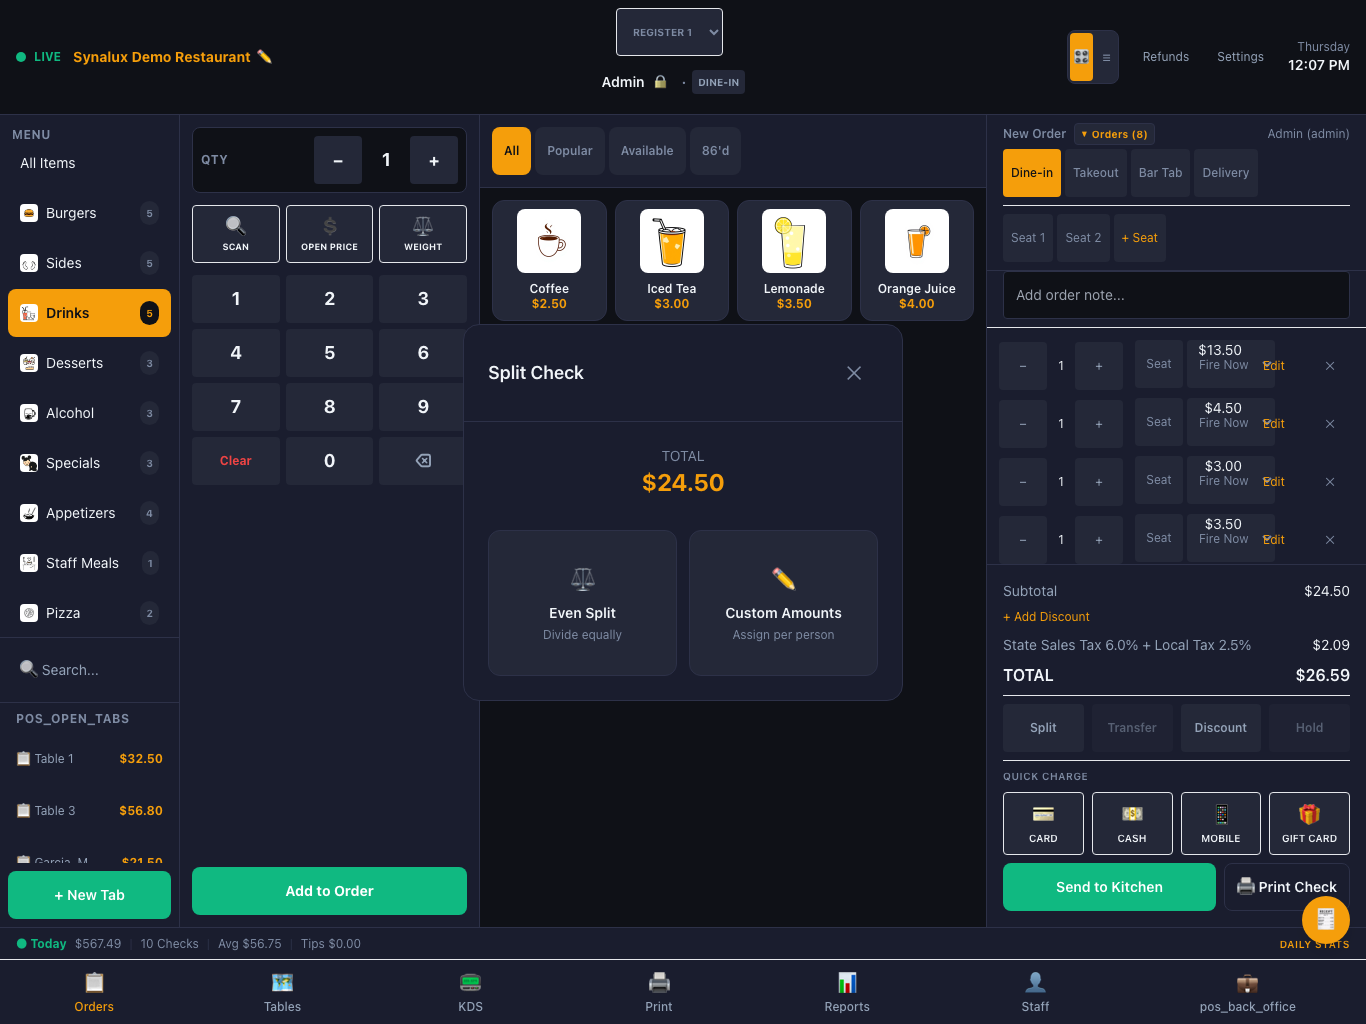
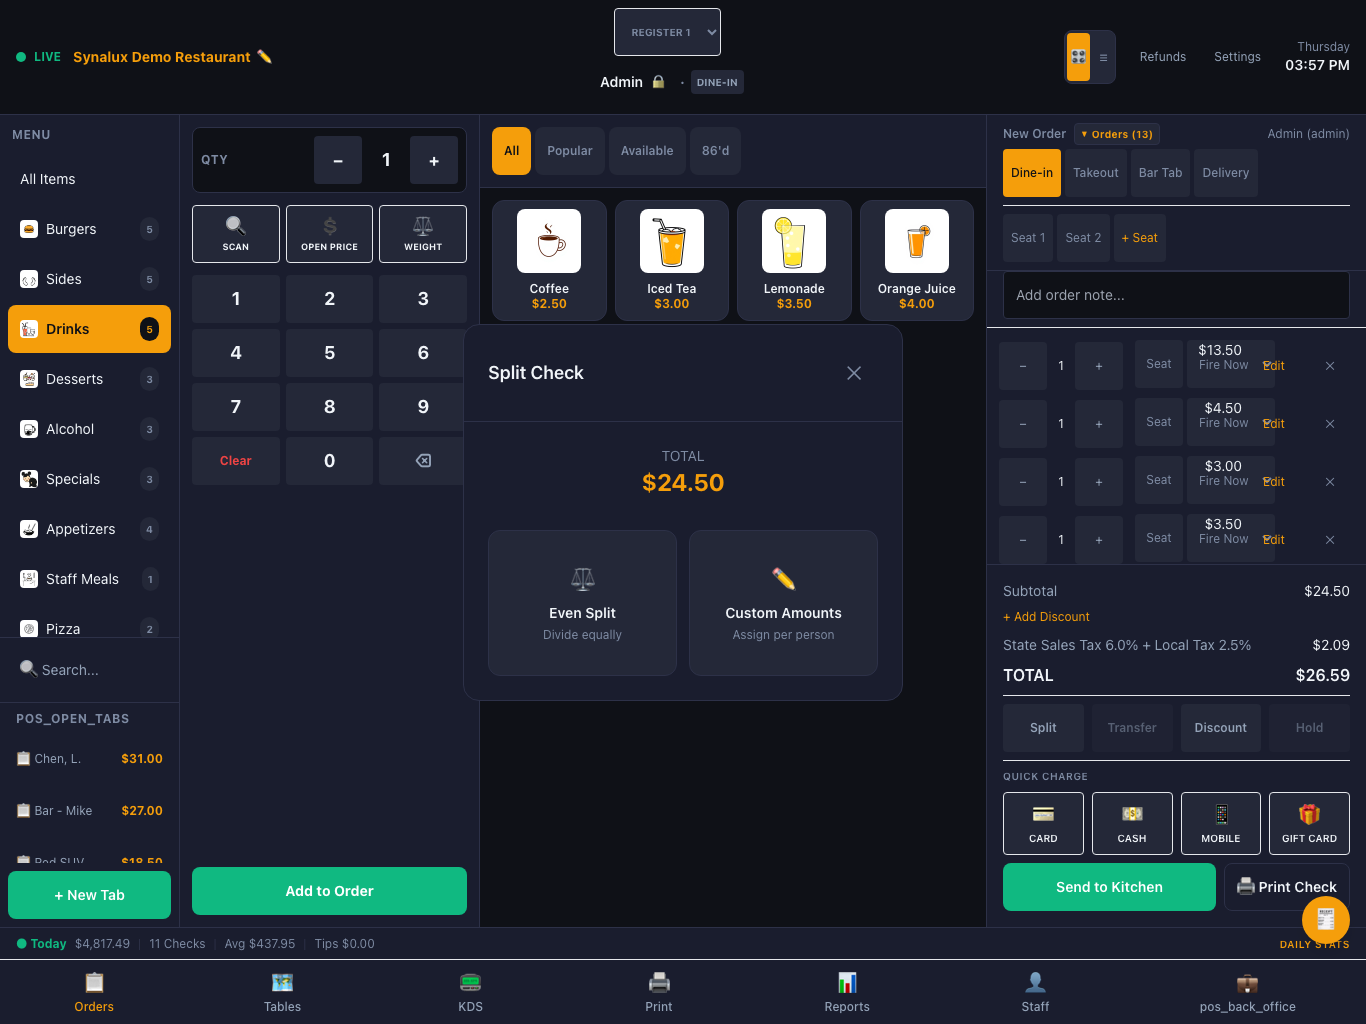
fix(pos): replace ALL 29 SVG placeholders with real screenshots
Zero generated SVGs remain. Every image in the README is now a real
PNG captured from the live demo at synalux-pos.vercel.app.

diff --git a/docs_source_en/pos.md b/docs_source_en/pos.md
@@ -118,12 +118,12 @@ Ring orders in seconds. Categories, product grid, and order ticket — all on on
 <img src="../images/pos/ipad_allergen_filter.png" alt="Allergen Filter" width="700">
 <img src="../images/pos/settings_discounts.png" alt="Discounts" width="700">
 <img src="../images/pos/settings_auto_gratuity.png" alt="Auto Gratuity" width="700">
-<img src="../images/pos/settings_open_price.svg" alt="Open Price" width="600">
-<img src="../images/pos/settings_scale.svg" alt="Weight Scale" width="600">
-<img src="../images/pos/settings_combos.svg" alt="Combos" width="600">
-<img src="../images/pos/settings_price_levels.svg" alt="Price Levels" width="600">
-<img src="../images/pos/settings_nutritional.svg" alt="Nutritional Info" width="600">
-<img src="../images/pos/settings_menu_scheduling.svg" alt="Menu Scheduling" width="600">
+<img src="../images/pos/settings_open_price.png" alt="Open Price" width="700">
+<img src="../images/pos/settings_scale.png" alt="Weight Scale" width="700">
+<img src="../images/pos/settings_combos.png" alt="Combos" width="700">
+<img src="../images/pos/settings_price_levels.png" alt="Price Levels" width="700">
+<img src="../images/pos/settings_nutritional.png" alt="Nutritional Info" width="700">
+<img src="../images/pos/settings_menu_scheduling.png" alt="Menu Scheduling" width="700">
 
 </details>
 
@@ -142,8 +142,8 @@ Visual floor plan with color-coded table status. Tap a table to start or view it
 2. Create sections (Main, Patio, Bar) for quick filtering
 3. Merge, split-back, transfer, or reopen closed checks from the table detail panel
 
-<img src="../images/pos/ipad_table_merge.svg" alt="Table Merge" width="600">
-<img src="../images/pos/ipad_seat_management.svg" alt="Seat Management" width="600">
+<img src="../images/pos/ipad_table_merge.png" alt="Table Merge" width="700">
+<img src="../images/pos/ipad_seat_management.png" alt="Seat Management" width="700">
 <img src="../images/pos/ipad_table_editor.png" alt="Table Editor" width="700">
 
 </details>
@@ -187,18 +187,18 @@ Card, cash, gift card, mobile pay, house account, EBT, bar tabs, Tap-to-Pay on i
 7. **EBT/SNAP** — add Forage API key in Settings > Integrations. Eligible items are automatically calculated
 8. **Split check** — split by even, custom amount, or per-seat. Each split can pay by different method (card/cash)
 
-<img src="../images/pos/ipad_split_check.svg" alt="Split Check" width="600">
+<img src="../images/pos/ipad_split_check.png" alt="Split Check" width="700">
 <img src="../images/pos/ipad_bar_tab.png" alt="Bar Tab" width="700">
 <img src="../images/pos/ipad_tap_to_pay.png" alt="Tap-to-Pay" width="700">
 <img src="../images/pos/ipad_cash_discount.png" alt="Cash Discount" width="700">
-<img src="../images/pos/ipad_post_payment_tip.svg" alt="Post-Payment Tip" width="600">
-<img src="../images/pos/ipad_ebt_payment.svg" alt="EBT/SNAP Payment" width="600">
+<img src="../images/pos/ipad_post_payment_tip.png" alt="Post-Payment Tip" width="700">
+<img src="../images/pos/ipad_ebt_payment.png" alt="EBT/SNAP Payment" width="700">
 <img src="../images/pos/settings_house_accounts.png" alt="House Accounts" width="700">
 <img src="../images/pos/settings_cash_discount.png" alt="Cash Discount Settings" width="700">
-<img src="../images/pos/settings_receipts.svg" alt="Receipts" width="600">
+<img src="../images/pos/settings_receipts.png" alt="Receipts" width="700">
 <img src="../images/pos/settings_chargebacks.png" alt="Chargebacks" width="700">
-<img src="../images/pos/settings_rounding.svg" alt="Cash Rounding" width="600">
-<img src="../images/pos/ipad_wallet_pay.svg" alt="Wallet Pay" width="600">
+<img src="../images/pos/settings_rounding.png" alt="Cash Rounding" width="700">
+<img src="../images/pos/ipad_wallet_pay.png" alt="Wallet Pay" width="700">
 
 </details>
 
@@ -218,8 +218,8 @@ Scheduling, break tracking, overtime alerts, tip pooling (3 modes), and payroll 
 3. Tip pool mode: by hours, percentage, or points
 
 <img src="../images/pos/settings_scheduling.png" alt="Scheduling" width="700">
-<img src="../images/pos/settings_break_tracking.svg" alt="Break Tracking" width="600">
-<img src="../images/pos/settings_overtime.svg" alt="Overtime" width="600">
+<img src="../images/pos/settings_break_tracking.png" alt="Break Tracking" width="700">
+<img src="../images/pos/settings_overtime.png" alt="Overtime" width="700">
 <img src="../images/pos/settings_tip_pooling.png" alt="Tip Pooling" width="700">
 <img src="../images/pos/settings_payroll.png" alt="Payroll" width="700">
 <img src="../images/pos/settings_payroll.png" alt="IRS Form 8027" width="700">
@@ -438,7 +438,7 @@ Sales, PMIX, menu engineering, speed of service, server leaderboard, payments, v
 
 <img src="../images/pos/settings_menu_engineering.png" alt="Menu Engineering" width="700">
 <img src="../images/pos/settings_reports_advanced.png" alt="Advanced Reports" width="700">
-<img src="../images/pos/settings_revenue_centers.svg" alt="Revenue Centers" width="600">
+<img src="../images/pos/settings_revenue_centers.png" alt="Revenue Centers" width="700">
 
 </details>
 
@@ -473,7 +473,7 @@ Issue gift cards ($25–$250). Loyalty with points, auto-tier (Bronze/Silver/Gol
 <summary><strong>Setup</strong></summary>
 
 <img src="../images/pos/settings_loyalty.png" alt="Loyalty" width="700">
-<img src="../images/pos/ipad_loyalty_checkin.svg" alt="Loyalty Check-in" width="600">
+<img src="../images/pos/ipad_loyalty_checkin.png" alt="Loyalty Check-in" width="700">
 
 </details>
 
@@ -483,15 +483,15 @@ Issue gift cards ($25–$250). Loyalty with points, auto-tier (Bronze/Silver/Gol
 
 Age verification, RBS cert tracking, tax-exempt orders, CCPA/GDPR, and full audit trail.
 
-<img src="../images/pos/settings_rbs_compliance.svg" alt="RBS Compliance" width="600">
+<img src="../images/pos/settings_rbs_compliance.png" alt="RBS Compliance" width="700">
 
 <details>
 <summary><strong>Setup</strong></summary>
 
 <img src="../images/pos/ipad_age_verification.png" alt="Age Verification" width="700">
-<img src="../images/pos/settings_tax_exempt.svg" alt="Tax Exempt" width="600">
+<img src="../images/pos/settings_tax_exempt.png" alt="Tax Exempt" width="700">
 <img src="../images/pos/settings_taxes.png" alt="Taxes" width="700">
-<img src="../images/pos/settings_privacy.svg" alt="Privacy (CCPA/GDPR)" width="600">
+<img src="../images/pos/settings_privacy.png" alt="Privacy (CCPA/GDPR)" width="700">
 
 </details>
 
@@ -506,7 +506,7 @@ Count cash, distribute tip pool, export GL journal, print Z-Report, close regist
 <details>
 <summary><strong>Setup</strong></summary>
 
-<img src="../images/pos/settings_cash_management.svg" alt="Cash Management" width="600">
+<img src="../images/pos/settings_cash_management.png" alt="Cash Management" width="700">
 
 </details>
 
@@ -588,7 +588,7 @@ Tableside ordering on any iPhone. Same menu, same modifiers, same KDS routing.
 Partial or full refund with reason codes. Reopen closed checks for corrections.
 
 <img src="../images/pos/ipad_refund.png" alt="Refund" width="700">
-<img src="../images/pos/ipad_reopen_check.svg" alt="Reopen Check" width="600">
+<img src="../images/pos/ipad_reopen_check.png" alt="Reopen Check" width="700">
 
 <details>
 <summary><strong>Setup</strong></summary>
@@ -608,7 +608,7 @@ Partial or full refund with reason codes. Reopen closed checks for corrections.
 Per-venue KPIs, consolidated P&L, config push, and franchise reporting.
 
 <img src="../images/pos/settings_multi_location.png" alt="Multi-Location" width="700">
-<img src="../images/pos/settings_franchise.svg" alt="Franchise" width="600">
+<img src="../images/pos/settings_franchise.png" alt="Franchise" width="700">
 
 <details>
 <summary><strong>Setup</strong></summary>
@@ -820,7 +820,7 @@ Post-visit surveys, star ratings, comment review, and response templates.
 
 ZPL-compatible (Zebra, Brother). Price/SKU/prep labels from any menu or inventory item.
 
-<img src="../images/pos/settings_label_printer.svg" alt="Label Printer" width="600">
+<img src="../images/pos/settings_label_printer.png" alt="Label Printer" width="700">
 
 <details>
 <summary><strong>Setup</strong></summary>
@@ -837,7 +837,7 @@ ZPL-compatible (Zebra, Brother). Price/SKU/prep labels from any menu or inventor
 
 Device registry with serial numbers, warranty, maintenance schedule, and depreciation.
 
-<img src="../images/pos/settings_equipment.svg" alt="Equipment" width="600">
+<img src="../images/pos/settings_equipment.png" alt="Equipment" width="700">
 
 <details>
 <summary><strong>Setup</strong></summary>
@@ -871,7 +871,7 @@ iPhone access to reports, KPIs, and quick actions — same data as the desktop, 
 
 Referral tracking, partner benefits, and commission tiers.
 
-<img src="../images/pos/settings_advantage.svg" alt="Advantage" width="600">
+<img src="../images/pos/settings_advantage.png" alt="Advantage" width="700">
 
 <details>
 <summary><strong>Setup</strong></summary>
@@ -919,8 +919,8 @@ Every integration activates by adding credentials in **Settings > Integrations**
 <details>
 <summary><strong>Developer: E2E Workflow & Role Testing</strong></summary>
 
-<img src="../images/pos/ipad_00_e2e_workflow.svg" alt="E2E Workflow" width="600">
-<img src="../images/pos/ipad_00c_combined_roles.svg" alt="Combined Role Tests" width="600">
+<img src="../images/pos/ipad_00_e2e_workflow.png" alt="E2E Workflow" width="700">
+<img src="../images/pos/ipad_00c_combined_roles.png" alt="Combined Role Tests" width="700">
 
 </details>
 